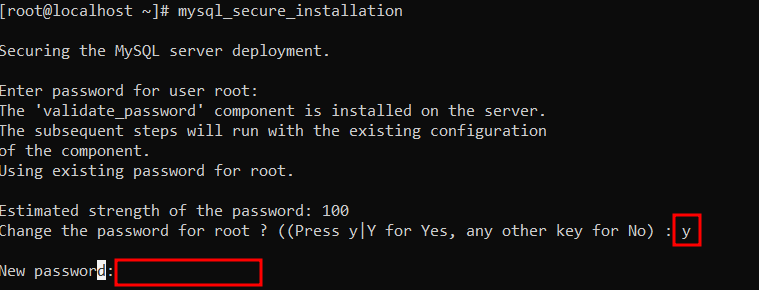
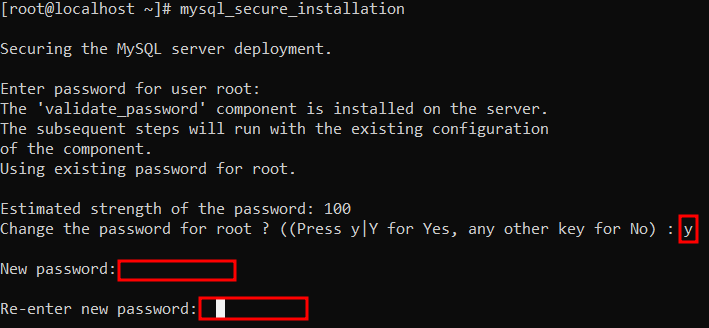
main

Changed region(s): [[0.0, 0.2483, 0.9929, 0.9931], [0.0, 0.1241, 0.4654, 0.2172], [0.0, 0.0, 0.5896, 0.0621]]

diff --git a/Ap1/Instalacio-Percona/README.md b/Ap1/Instalacio-Percona/README.md
@@ -40,8 +40,8 @@ Realitzarem la securització del percona per fer mes segura la base de dades:
 
 `mysql_secure_installation`
 ´
-El primer cop que introduim el password nou ens dona un error,perque el percona ja porta un component instalat, pero es normal
-Introduirem la nova contrasenya per a root:
+El primer cop que introduim el password nou ens dona un error,(perque el percona ja porta un component instalat), i ens fara una pregunta, li contestarem: y
+A continuació introduirem la nova contrasenya per a root 2 cops:
 
 ![ScreenShot](imgs/percona_securitzacio.png)
 
